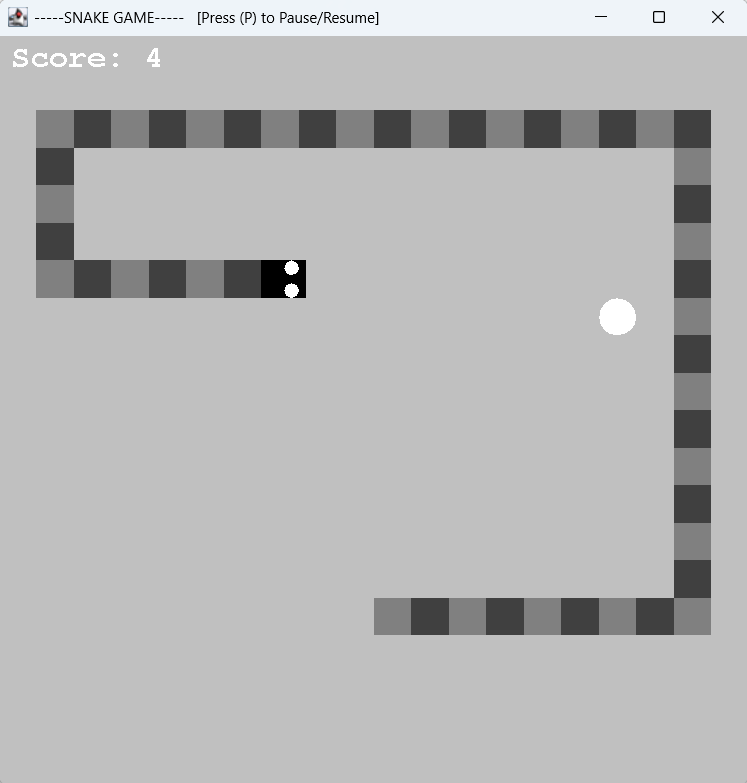
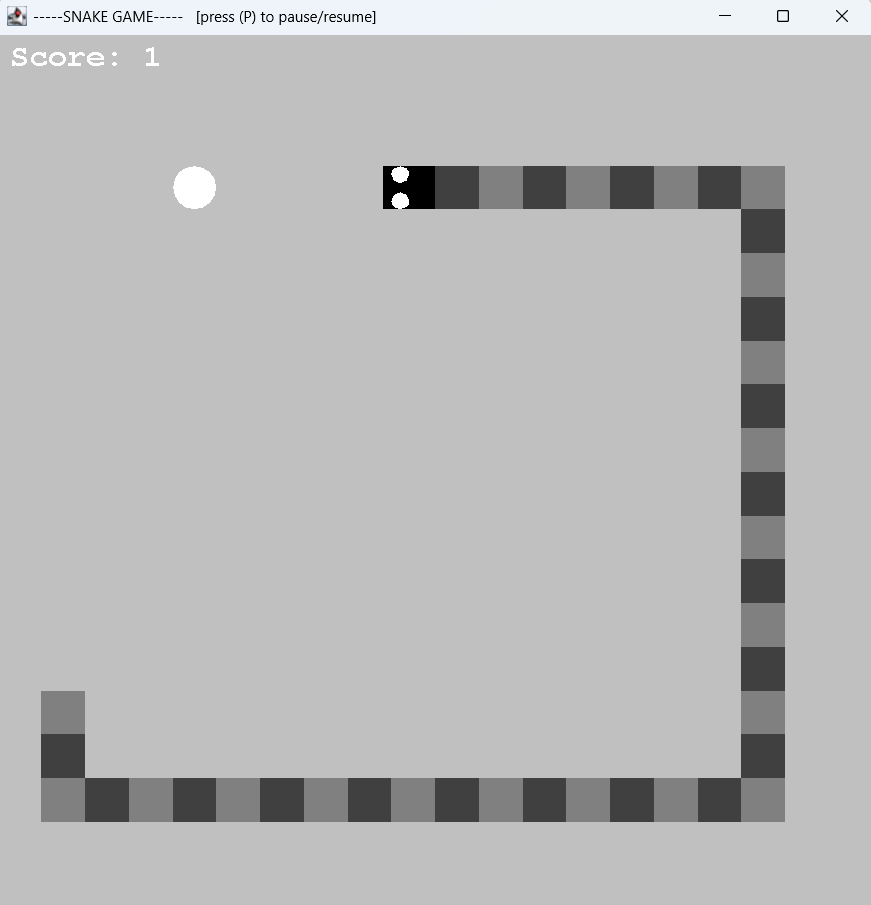
Welcome screen and other improvements. Readme file update.

Changed region(s): [[0.0308, 0.1226, 0.9545, 0.9195], [0.0, 0.0, 1.0, 0.092]]

diff --git a/SnakeGame/SnakeGame.java b/SnakeGame/SnakeGame.java
@@ -7,14 +7,15 @@ import java.util.Random;
 
 class SnakeGame extends JPanel implements ActionListener, KeyListener {
 	
-    // Game configuration
-    private final int WIDTH = 600;
-    private final int HEIGHT = 600;
-    private final int UNIT_SIZE = 30; // UNIT_SIZE = 20
+    // Game configuration (panel size, timer, etc.)
+    private final int WIDTH = 700;
+    private final int HEIGHT = 700;
+    private final int UNIT_SIZE = 35;
     private int subUnit = UNIT_SIZE / 5;
     private Timer timer;
-    private boolean running;
-    private boolean paused;
+    private int delay = 150;
+    private boolean welcomeScreen = true;
+    private boolean paused = false;
     private Font scoreFont = new Font("Monospaced", Font.BOLD, 25);
     private int score;
     
@@ -35,18 +36,15 @@ class SnakeGame extends JPanel implements ActionListener, KeyListener {
         setPreferredSize(new Dimension(WIDTH, HEIGHT));
         setBackground(Color.lightGray);
         setFocusable(true);
+        timer = new Timer(delay, this); // Timer delay determines game speed in milliseconds. 
         addKeyListener(this);
-        startGame();
+        initGame();
     }
     
-    private void startGame() {
-    	snake(45, 'R'); // Snake's starting conditions. (90, 'R')
-    	placeFood();
-    	running = true;
-    	paused = false;
+    private void initGame() {
     	score = 0;
-    	timer = new Timer(150, this); // Timer delay determines game speed in milliseconds. 
-        timer.start();
+    	snake(40, 'R'); // Snake's starting conditions. 
+    	placeFood();
     }
     
     // Initialize snake. 
@@ -80,17 +78,10 @@ class SnakeGame extends JPanel implements ActionListener, KeyListener {
     @Override
     public void keyPressed(KeyEvent e) {
     	
-    	if (running) {
+    	if (timer.isRunning()) {
     		
     		// If 'P' is pressed pause/resume the game. 
-    		if (e.getKeyCode() == KeyEvent.VK_P) {
-                paused = !paused;
-                if (paused) {
-                    timer.stop(); // Halt game loop updates. 
-                } else {
-                    timer.start(); // Resume game loop updates. 
-                }
-            }
+    		if (e.getKeyCode() == KeyEvent.VK_P) paused = !paused;
     		
     		// If the game is not paused, then update the snake's direction based on the arrow keys. 
     		if (!paused) {
@@ -109,10 +100,16 @@ class SnakeGame extends JPanel implements ActionListener, KeyListener {
     @Override
     public void keyReleased(KeyEvent e) {
     	
-    	// If the game is over, allow restarting with 'R'. 
-    	if (!running) {
+    	if (welcomeScreen) {
+			if (e.getKeyCode() == KeyEvent.VK_S) { // Welcome screen disappears and game starts. 
+				welcomeScreen = false;
+				timer.start();
+			}
+		} else if (!timer.isRunning()) { // If the game is over, allow restarting with 'R'. 
     		if (e.getKeyCode() == KeyEvent.VK_R) {
-                startGame();
+                initGame();
+                timer.setDelay(delay);
+                timer.restart(); // Resume game loop updates. 
             }
 		}
     	
@@ -175,7 +172,6 @@ class SnakeGame extends JPanel implements ActionListener, KeyListener {
         for (int i = 1; i < bodyParts; i++) {
             if (x[0] == x[i] && y[0] == y[i]) {
             	//System.out.println("self-collision");
-            	running = false;
             	timer.stop();
             	break;
             }
@@ -187,17 +183,14 @@ class SnakeGame extends JPanel implements ActionListener, KeyListener {
     @Override
     public void actionPerformed(ActionEvent e) {
     	
-        if (running && !paused) {
+        if (!paused) {
         	
             move();
             checkFood();
             checkSelfCollision();
             
-            // Check collision with wall. 
-            if (x[0] < 0 || x[0] >= WIDTH || y[0] < 0 || y[0] >= HEIGHT) {
-            	running = false;
-            	timer.stop();
-            }
+            // Check collisions with walls. 
+            if (x[0] < 0 || x[0] >= WIDTH || y[0] < 0 || y[0] >= HEIGHT) timer.stop();
             
         }
         
@@ -205,14 +198,40 @@ class SnakeGame extends JPanel implements ActionListener, KeyListener {
         
     }
     
+    // Rendering
     @Override
     protected void paintComponent(Graphics g) {
+    	
         super.paintComponent(g);
-        if (running) {
+        
+        if (welcomeScreen) {
+        	welcome(g);
+        } else if (timer.isRunning()) {
             draw(g);
 		} else {
             gameOver(g);
 		}
+        
+    }
+    
+    // Welcome screen with instructions. 
+    private void welcome(Graphics g) {
+    	
+    	g.setColor(Color.white);
+    	
+    	// Title
+        g.setFont(new Font("Monospaced", Font.BOLD, 50));
+        g.drawString("SNAKE GAME", WIDTH / 6, HEIGHT / 5);
+        
+        // Instructions
+        
+        g.setFont(new Font("Monospaced", Font.BOLD, 30));
+        g.drawString("use the arrow keys", WIDTH / 4, HEIGHT / 3 - 15);
+        g.drawString("to control the snake", WIDTH / 4, HEIGHT / 3 + 15);
+        
+        g.setFont(new Font("Monospaced", Font.BOLD, 20));
+        g.drawString("press (S) to start", WIDTH / 3, HEIGHT / 2);
+        
     }
     
     private void draw(Graphics g) {
@@ -287,13 +306,13 @@ class SnakeGame extends JPanel implements ActionListener, KeyListener {
         
         // Restart instruction
         g.setFont(new Font("Monospaced", Font.BOLD, 20));
-        g.drawString("Press (R) to Restart", WIDTH / 3, HEIGHT / 2);
+        g.drawString("press (R) to restart", WIDTH / 3, HEIGHT / 2);
         
     }
     
     // Main entry point: Create the window and start the game. 
     public static void main(String[] args) {
-        JFrame frame = new JFrame("-----SNAKE GAME-----   [Press (P) to Pause/Resume]");
+        JFrame frame = new JFrame("-----SNAKE GAME-----   [press (P) to pause/resume]");
         frame.setDefaultCloseOperation(JFrame.EXIT_ON_CLOSE);
         frame.add(new SnakeGame());
         frame.pack();

diff --git a/README.md b/README.md
@@ -1,8 +1,8 @@
 # snake-game
 
-A classic Snake Game built in Java (using Microsoft/GitHub Copilot). 
+A classic Snake Game built in Java. 
 
-<img src="Gameplay.png" width="500"/>
+<img src="Gameplay.png" width="400"/>
 
 ### Overview
 The player controls a snake which grows longer as it consumes food. \
@@ -14,7 +14,7 @@ The game ends when the snake hits the boundaries or itself.
 ### Setup
 -**Just run the program:** \
 From Eclipse, right-click on SnakeGame.java and select "Run As" > "1 Java Application". \
-The game will then start automatically. 
+The welcome screen will appear. Then press (S) to start the game. 
 
 ### How to Play
 -**Controls:** \
